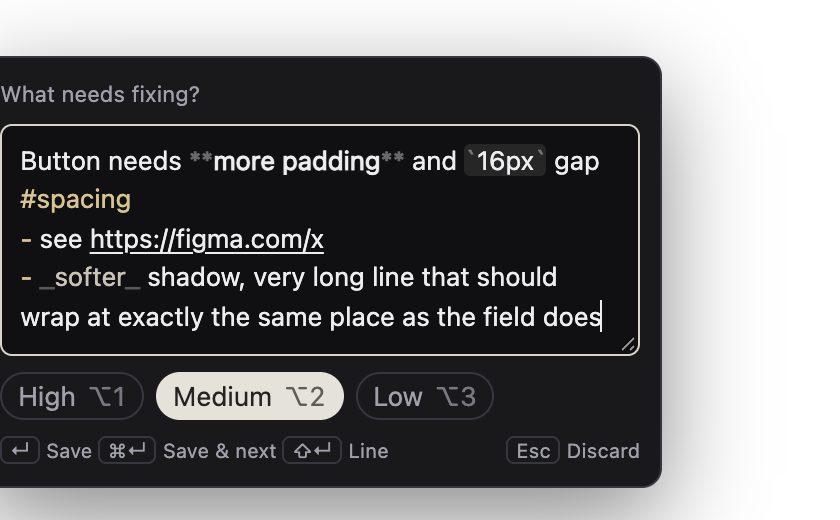
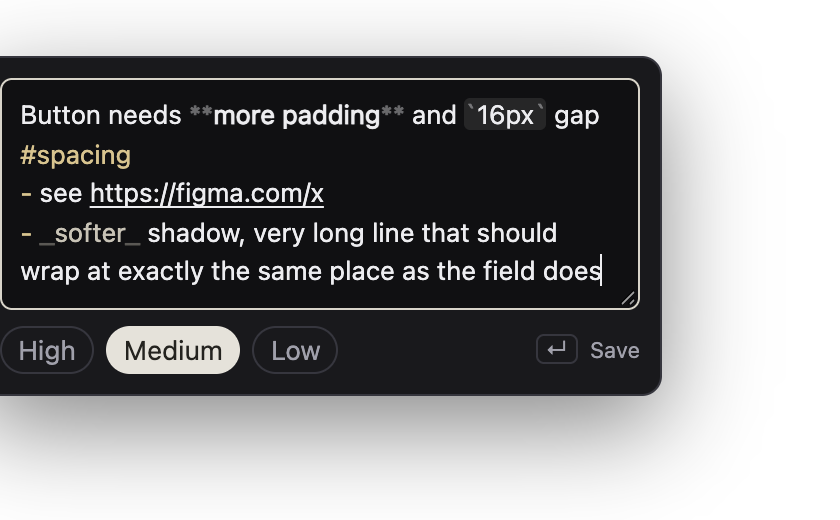
Simplify note box: no title, plain priority chips, single save hint

diff --git a/extension/panel.html b/extension/panel.html
@@ -5,6 +5,6 @@
 <dialog id="shortcutsDialog" aria-labelledby="shortcutsTitle"><h2 id="shortcutsTitle">Keyboard shortcuts</h2><dl class="shortcuts"><dt>Select an element</dt><dd><kbd>S</kbd></dd><dt>Capture visible page</dt><dd><kbd>P</kbd></dd><dt>Save finding</dt><dd><kbd data-mod>↵</kbd></dd><dt>Discard capture</dt><dd><kbd>Esc</kbd> or <kbd>Delete</kbd></dd><dt>Write note</dt><dd><kbd>C</kbd></dd><dt>Bold / italic / code / link</dt><dd><kbd data-mod>B</kbd> <kbd data-mod>I</kbd> <kbd data-mod>E</kbd> <kbd data-mod>K</kbd></dd><dt>Indent list item</dt><dd><kbd>Tab</kbd> / <kbd>⇧Tab</kbd></dd><dt>Undo delete or discard</dt><dd><kbd data-mod>Z</kbd></dd><dt>Edit / delete focused finding</dt><dd><kbd>↵</kbd> / <kbd>Delete</kbd></dd><dt>Export report</dt><dd><kbd>E</kbd></dd><dt>Copy report as Markdown</dt><dd><kbd data-mod>⇧C</kbd></dd><dt>Save &amp; select next (on page)</dt><dd><kbd data-mod>↵</kbd></dd><dt>Toggle tag 1–8</dt><dd><kbd>Alt</kbd><kbd>1</kbd>–<kbd>8</kbd></dd><dt>Show shortcuts</dt><dd><kbd>?</kbd></dd></dl><h3>While selecting and in the note box</h3><dl class="shortcuts"><dt>Parent / child element</dt><dd><kbd>↑</kbd> / <kbd>↓</kbd></dd><dt>Select highlighted element</dt><dd><kbd>↵</kbd></dd><dt>Priority High / Medium / Low</dt><dd><kbd>Alt</kbd><kbd>1</kbd>–<kbd>3</kbd></dd></dl><h3>From any web page</h3><dl class="shortcuts"><dt>Open Hyper-Design-QA</dt><dd><kbd>Alt</kbd><kbd>Shift</kbd><kbd>Q</kbd></dd><dt>Select an element</dt><dd><kbd>Alt</kbd><kbd>Shift</kbd><kbd>S</kbd></dd><dt>Capture visible page</dt><dd><kbd>Alt</kbd><kbd>Shift</kbd><kbd>P</kbd></dd></dl><p class="dialog-note">Change these at brave://extensions/shortcuts or chrome://extensions/shortcuts.</p><div class="dialog-actions"><button id="closeShortcuts" class="secondary">Done</button></div></dialog>
 <div id="captureArea"><div class="section-head"><h1>Capture an issue</h1></div><p class="intro">See something off? Select it, add a note, and keep browsing.</p><button id="pick" class="primary"><span class="button-label"><span data-icon="select" aria-hidden="true"></span><span>Select an element</span></span><kbd aria-hidden="true">S</kbd></button><button id="page" class="secondary"><span class="button-label"><span data-icon="page" aria-hidden="true"></span><span>Capture visible page</span></span><kbd aria-hidden="true">P</kbd></button><p class="hint">Screenshots and element details are captured for you. <button id="showShortcuts" type="button" class="text inline">Shortcuts <kbd>?</kbd></button></p></div>
 
-<section id="editor" hidden><div class="section-head"><h2 id="editorTitle">Describe the issue</h2><button id="discard" class="text">Discard <kbd>Esc</kbd></button></div><div class="preview-wrap" title="Click to write your note"><img id="preview" alt="Captured page with selected element marked"><span id="previewCaption">Screenshot included</span></div><label for="comment">What needs fixing? <span class="required">Required</span></label><textarea id="comment" rows="4" placeholder="e.g. The button is too close to the heading. It needs more space above it." aria-describedby="commentHint commentError"></textarea><p id="commentError" class="field-error" hidden>Describe what needs fixing before saving.</p><p id="commentHint" class="field-hint">Say what you see and how it should look. Markdown works: <code>- lists</code>, <kbd data-mod>B</kbd> <kbd data-mod>I</kbd> <kbd data-mod>K</kbd>.</p><p id="commentTip" class="field-tip" hidden>Tip: say what it should look like instead, e.g. “needs 16px gap”.</p><label for="links">Links <span class="required">Optional</span></label><input id="links" type="text" inputmode="url" autocomplete="off" placeholder="Paste Figma or reference links"><p class="field-hint">Separate multiple links with a space. In Figma, ⌘L / Ctrl+L copies a frame link.</p><div class="tag-row" role="group" aria-label="Tags"><span class="tag-label">Tags</span><div id="tags"></div></div><div class="priority-row"><label for="severity">Priority</label><select id="severity"><option value="Low">Low · minor polish</option><option value="Medium" selected>Medium · needs fixing</option><option value="High">High · blocks usage</option></select></div><details><summary>Element details</summary><label for="component">Element name <span class="required">Auto-detected</span></label><input id="component" maxlength="200" placeholder="e.g. Sign-up button"><div id="location" class="location"></div><p class="field-hint">Included in your report. You don’t need to edit these.</p></details><button id="save" class="primary"><span>Save finding</span><kbd aria-hidden="true" data-mod>↵</kbd></button><p class="hint">Saved as you type · <kbd>Esc</kbd> discards the capture</p></section>
+<section id="editor" hidden><div class="section-head"><h2 id="editorTitle">Describe the issue</h2><button id="discard" class="text">Discard <kbd>Esc</kbd></button></div><div class="preview-wrap" title="Click to write your note"><img id="preview" alt="Captured page with selected element marked"><span id="previewCaption">Screenshot included</span></div><label for="comment">What needs fixing? <span class="required">Required</span></label><textarea id="comment" rows="4" placeholder="e.g. The button is too close to the heading. It needs more space above it." aria-describedby="commentHint commentError"></textarea><p id="commentError" class="field-error" hidden>Describe what needs fixing before saving.</p><p id="commentHint" class="field-hint">Say what you see and how it should look.</p><p id="commentTip" class="field-tip" hidden>Tip: say what it should look like instead, e.g. “needs 16px gap”.</p><label for="links">Links <span class="required">Optional</span></label><input id="links" type="text" inputmode="url" autocomplete="off" placeholder="Paste Figma or reference links"><p class="field-hint">Separate multiple links with a space. In Figma, ⌘L / Ctrl+L copies a frame link.</p><div class="tag-row" role="group" aria-label="Tags"><span class="tag-label">Tags</span><div id="tags"></div></div><div class="priority-row"><label for="severity">Priority</label><select id="severity"><option value="Low">Low · minor polish</option><option value="Medium" selected>Medium · needs fixing</option><option value="High">High · blocks usage</option></select></div><details><summary>Element details</summary><label for="component">Element name <span class="required">Auto-detected</span></label><input id="component" maxlength="200" placeholder="e.g. Sign-up button"><div id="location" class="location"></div><p class="field-hint">Included in your report. You don’t need to edit these.</p></details><button id="save" class="primary"><span>Save finding</span><kbd aria-hidden="true" data-mod>↵</kbd></button><p class="hint">Saved as you type · <kbd>Esc</kbd> discards the capture</p></section>
 <section id="findingsSection"><div class="section-head"><h2>Findings <span id="badge">0</span></h2><div id="filters" class="filters" role="group" aria-label="Filter by priority" hidden></div></div><div id="findings"></div><div id="empty"><div class="empty-icon" data-icon="frame" aria-hidden="true"></div><h3>Your first finding starts here</h3><p>Use “Select an element” above,<br>then click what needs attention.</p><ol class="steps"><li><span>1</span>Select</li><li><span>2</span>Add a note</li><li><span>3</span>Export</li></ol></div></section>
 </main><footer><button id="export" class="primary" disabled><span>Export report</span><kbd aria-hidden="true">E</kbd></button><p id="exportHint">Add a finding to create your report.</p><div class="export-alt"><button id="copyMd" class="text" disabled>Copy Markdown <kbd data-mod>⇧C</kbd></button><button id="exportMd" class="text" disabled>Download Markdown only</button></div><p id="copyLive" class="copy-live" role="status" aria-live="polite"></p><details class="export-help"><summary>How do I share this with Claude?</summary><p>Export your report and unzip the downloaded file. Attach report.md and the screenshots to Claude. The report also includes a JSON file with the captured details.</p></details><a class="privacy-link" href="privacy.html" target="_blank" rel="noopener">Privacy &amp; data · stored only on this device</a></footer><div id="statusWrap" class="toast" hidden><p id="status" role="status" aria-live="polite"></p><button id="undo" class="text" hidden>Undo <kbd data-mod>Z</kbd></button></div><script type="module" src="panel.js"></script></body></html>

diff --git a/extension/picker.js b/extension/picker.js
@@ -80,8 +80,8 @@
     const host = document.createElement('div');
     host.style.cssText = 'position:fixed;z-index:2147483647;inset:auto';
     const root = host.attachShadow({mode:'closed'});
-    root.innerHTML = '<div class="mark"></div><div class="box" role="dialog" aria-label="Hyper-Design-QA note"><p class="title">What needs fixing?</p><textarea placeholder="Start typing… - lists, **bold**, #tags and links work"></textarea><p class="tip" hidden>Tip: say what it should look like instead. ↵ again saves as is.</p><div class="prio" role="radiogroup" aria-label="Priority"><button data-p="High">High <kbd>'+alt+'1</kbd></button><button data-p="Medium" aria-checked="true">Medium <kbd>'+alt+'2</kbd></button><button data-p="Low">Low <kbd>'+alt+'3</kbd></button></div><div class="foot"><span><kbd>↵</kbd>Save <kbd>'+(mac?'⌘':'Ctrl')+'↵</kbd>Save &amp; next <kbd>⇧↵</kbd>Line</span><span><kbd>Esc</kbd>Discard</span></div></div>';
-    const sheet = new CSSStyleSheet(); sheet.replaceSync(':host{all:initial}.mark{position:fixed;pointer-events:none;border:2px solid #e34b30;box-sizing:border-box;border-radius:2px}.box{--hf-text:#ededf0;--hf-bg:#101012;--hf-placeholder:#8a8a93;position:fixed;width:320px;background:#19191c;color:#ededf0;border:1px solid #36363e;border-radius:10px;box-shadow:0 16px 48px #0007;font:13px/1.5 Inter,-apple-system,BlinkMacSystemFont,"Segoe UI",sans-serif;padding:10px}textarea,.hf-back{box-sizing:border-box;}textarea{box-sizing:border-box;width:100%;min-height:64px;resize:vertical;background:#101012;color:inherit;border:1px solid #36363e;border-radius:6px;padding:8px 9px;font:inherit;outline:none}textarea:focus{border-color:#d8d4c9}.foot{display:flex;justify-content:space-between;gap:8px;margin-top:8px;color:#a0a0ab;font-size:10px}kbd{font:inherit;border:1px solid #36363e;border-radius:4px;padding:0 4px;margin-right:3px}.title{font-size:11px;color:#a0a0ab;margin:0 0 6px}.tip{font-size:11px;color:#e5c07b;margin:6px 0 0}.prio{display:flex;gap:6px;margin-top:8px}.prio button{font:500 11px/1.4 inherit;font-family:inherit;color:#a0a0ab;background:none;border:1px solid #36363e;border-radius:12px;padding:3px 8px;cursor:pointer}.prio button kbd{border:0;padding:0;margin:0 0 0 2px;opacity:.7}.prio button[aria-checked="true"]{background:#e5e2da;color:#24231f;border-color:#e5e2da}'); root.adoptedStyleSheets = [sheet];
+    root.innerHTML = '<div class="mark"></div><div class="box" role="dialog" aria-label="Hyper-Design-QA note"><textarea aria-label="What needs fixing?" placeholder="What needs fixing?"></textarea><p class="tip" hidden>Add how it should look? ↵ again to save.</p><div class="row"><div class="prio" role="radiogroup" aria-label="Priority"><button data-p="High" title="'+alt+'1">High</button><button data-p="Medium" aria-checked="true" title="'+alt+'2">Medium</button><button data-p="Low" title="'+alt+'3">Low</button></div><span class="save"><kbd>↵</kbd> Save</span></div></div>';
+    const sheet = new CSSStyleSheet(); sheet.replaceSync(':host{all:initial}.mark{position:fixed;pointer-events:none;border:2px solid #e34b30;box-sizing:border-box;border-radius:2px}.box{--hf-text:#ededf0;--hf-bg:#101012;--hf-placeholder:#8a8a93;position:fixed;width:320px;background:#19191c;color:#ededf0;border:1px solid #36363e;border-radius:10px;box-shadow:0 16px 48px #0007;font:13px/1.5 Inter,-apple-system,BlinkMacSystemFont,"Segoe UI",sans-serif;padding:10px}textarea,.hf-back{box-sizing:border-box;}textarea{box-sizing:border-box;width:100%;min-height:64px;resize:vertical;background:#101012;color:inherit;border:1px solid #36363e;border-radius:6px;padding:8px 9px;font:inherit;outline:none}textarea:focus{border-color:#d8d4c9}.foot{display:flex;justify-content:space-between;gap:8px;margin-top:8px;color:#a0a0ab;font-size:10px}kbd{font:inherit;border:1px solid #36363e;border-radius:4px;padding:0 4px;margin-right:3px}.title{font-size:11px;color:#a0a0ab;margin:0 0 6px}.tip{font-size:11px;color:#e5c07b;margin:6px 0 0}.row{display:flex;align-items:center;justify-content:space-between;margin-top:8px}.save{font-size:11px;color:#a0a0ab}.prio{display:flex;gap:6px}.prio button{font:500 11px/1.4 inherit;font-family:inherit;color:#a0a0ab;background:none;border:1px solid #36363e;border-radius:12px;padding:3px 8px;cursor:pointer}.prio button kbd{border:0;padding:0;margin:0 0 0 2px;opacity:.7}.prio button[aria-checked="true"]{background:#e5e2da;color:#24231f;border-color:#e5e2da}'); root.adoptedStyleSheets = [sheet];
     const box = root.querySelector('.box'), field = root.querySelector('textarea'), tip = root.querySelector('.tip'), mark = root.querySelector('.mark');
     const r = rect || {x: innerWidth/2 - 160, y: 60, width: 0, height: 0, right: innerWidth/2 + 160, bottom: 60};
     Object.assign(mark.style, {left:r.x-3+'px',top:r.y-3+'px',width:r.width+6+'px',height:r.height+6+'px'});
